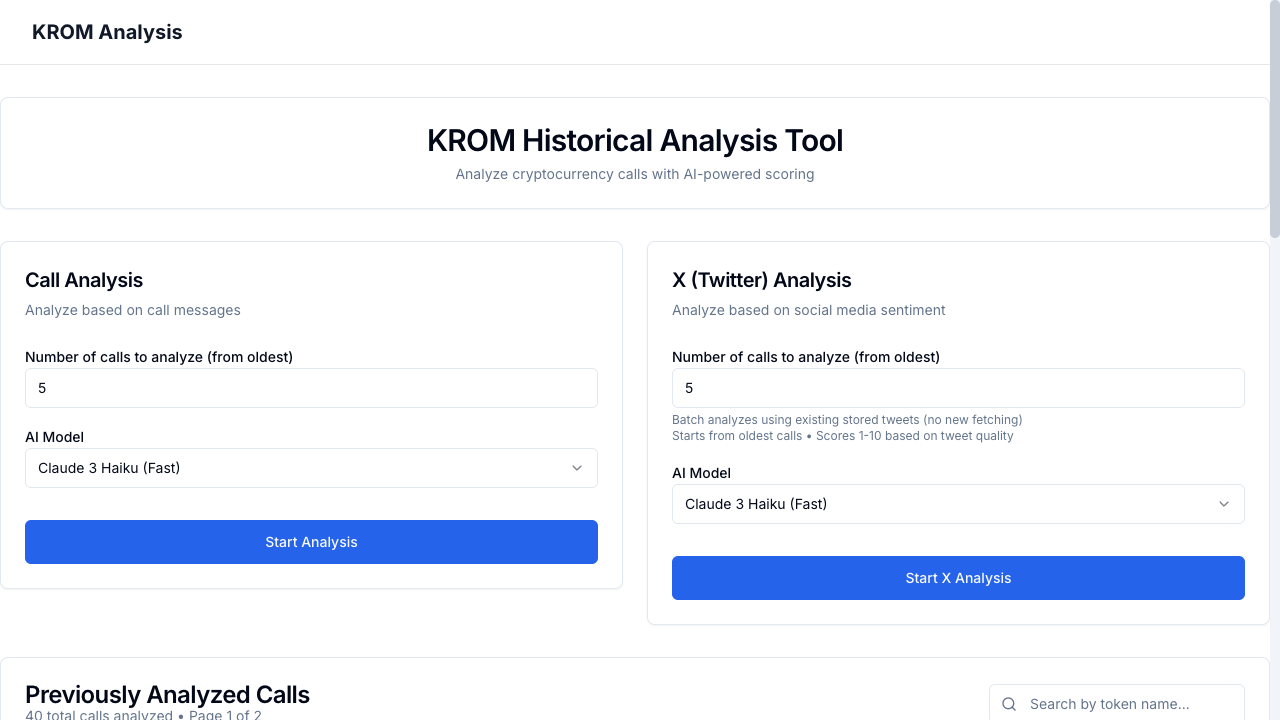
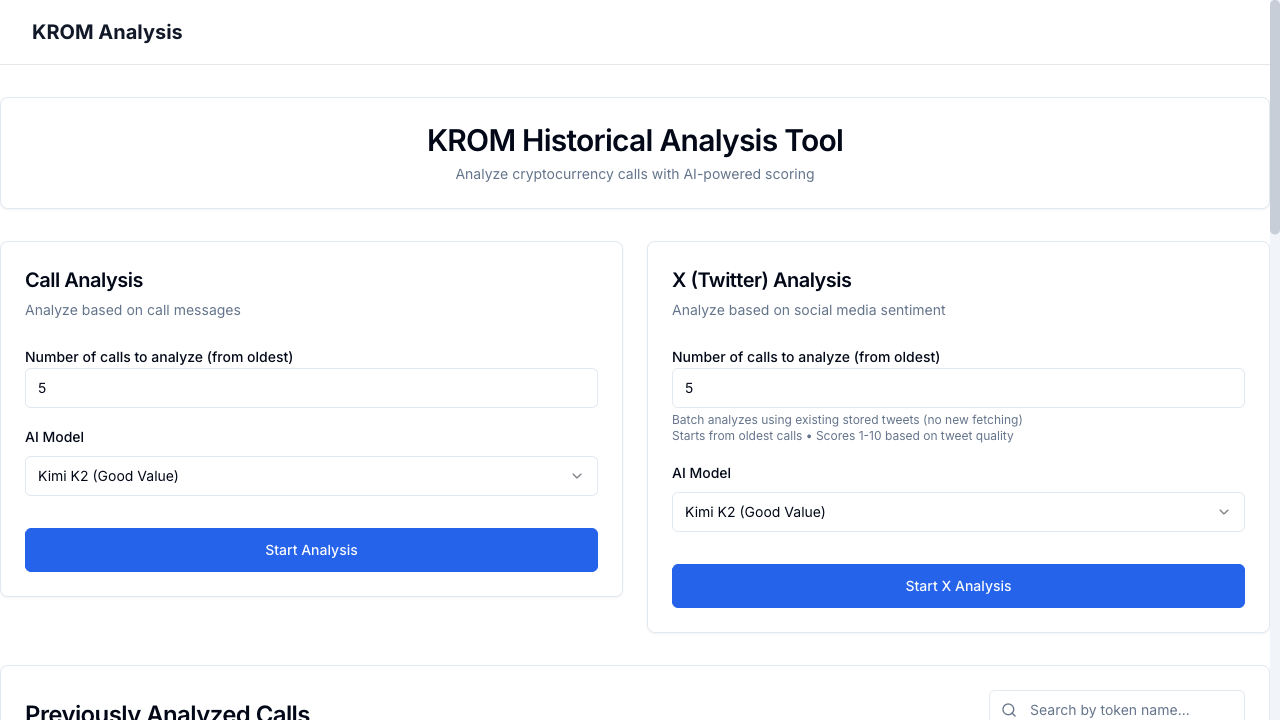
feat: add cron endpoint for automated analysis

diff --git a/app/api/cron/analyze/route.ts b/app/api/cron/analyze/route.ts
@@ -1,0 +1,48 @@
+import { NextRequest, NextResponse } from 'next/server';
+
+export async function GET(request: NextRequest) {
+  // Simple auth check - you can use a secret in the URL
+  const authToken = request.nextUrl.searchParams.get('auth');
+  if (authToken !== process.env.CRON_SECRET) {
+    return NextResponse.json({ error: 'Unauthorized' }, { status: 401 });
+  }
+
+  try {
+    // Call the existing analyze endpoint
+    const baseUrl = process.env.VERCEL_URL 
+      ? `https://${process.env.VERCEL_URL}` 
+      : 'http://localhost:3000';
+      
+    const response = await fetch(`${baseUrl}/api/analyze`, {
+      method: 'POST',
+      headers: {
+        'Content-Type': 'application/json',
+      },
+      body: JSON.stringify({
+        limit: 20, // Process 20 calls per cron run
+        model: 'moonshotai/kimi-k2:free' // Use the efficient model
+      })
+    });
+
+    const result = await response.json();
+    
+    return NextResponse.json({
+      success: true,
+      processed: result.count || 0,
+      duration: result.duration,
+      timestamp: new Date().toISOString()
+    });
+    
+  } catch (error) {
+    console.error('Cron analyze error:', error);
+    return NextResponse.json(
+      { error: 'Failed to run analysis', details: error instanceof Error ? error.message : 'Unknown error' },
+      { status: 500 }
+    );
+  }
+}
+
+// For cron services that use HEAD requests to check endpoint
+export async function HEAD(request: NextRequest) {
+  return new NextResponse(null, { status: 200 });
+}
